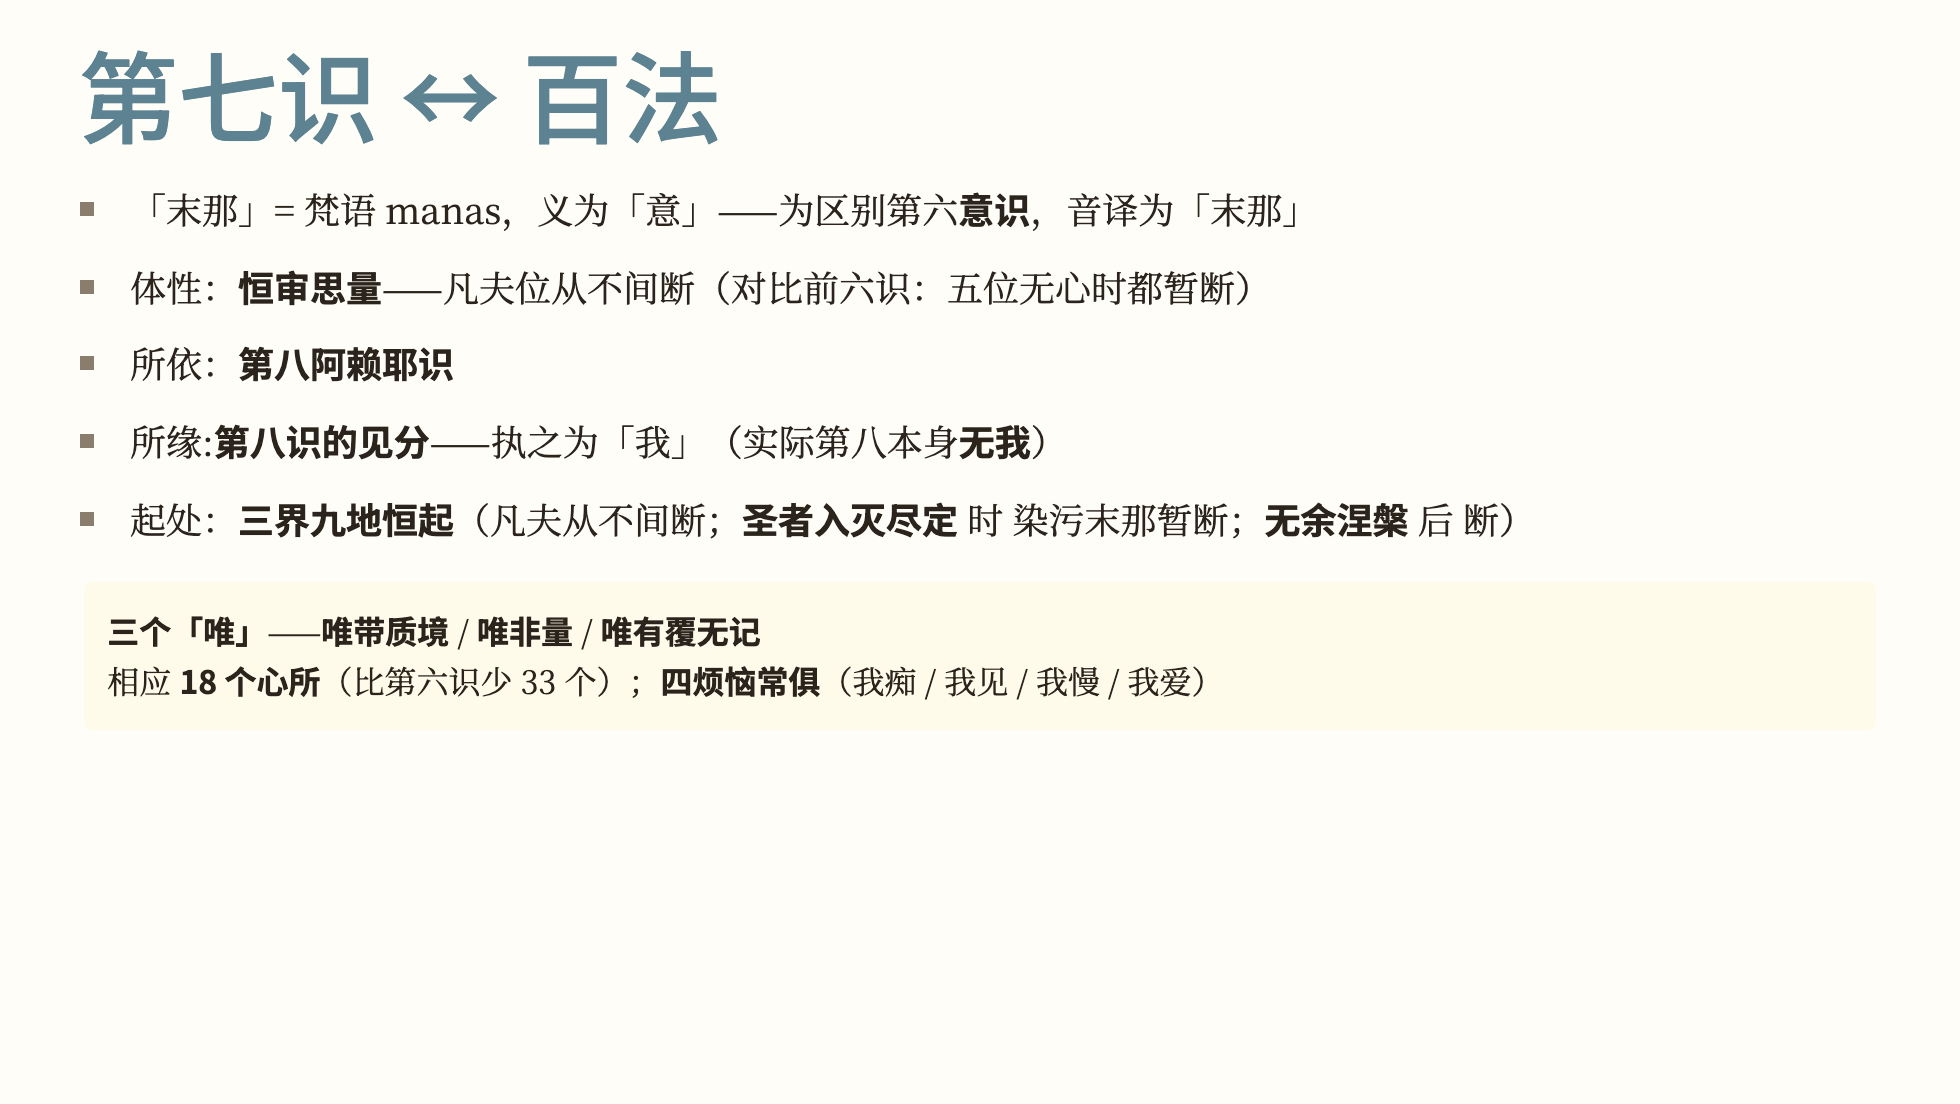
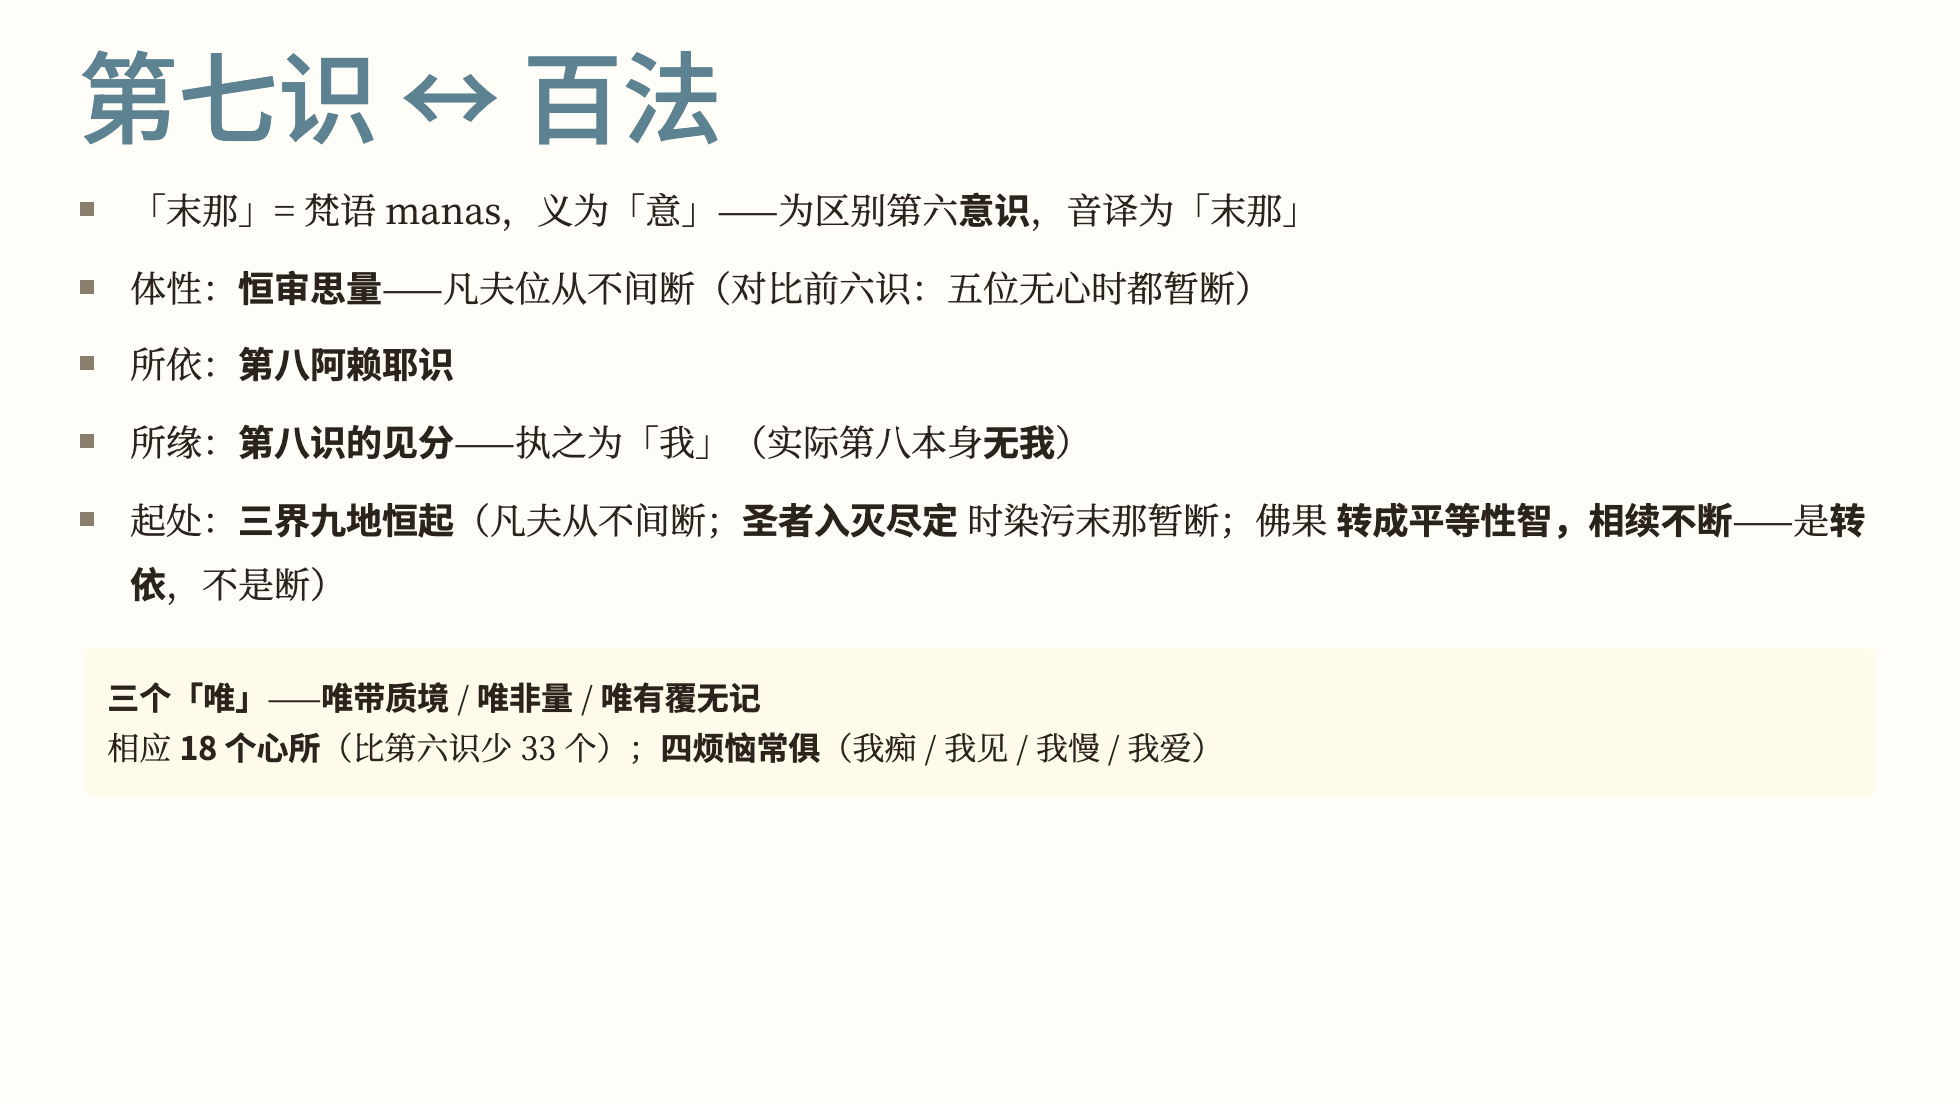
videos: V8 P4 起处再校验 — 佛果转平等性智相续不断（不是断）
大乘唯识立场：末那从来不真断，只有有漏转无漏——
- 凡夫位：染污末那 从不间断
- 圣者入灭尽定：染污末那暂断
- 佛果：转成平等性智相续不断（转依而非断灭）

删掉「无余涅槃后断」——那是二乘视角，跟大乘唯识（报身佛永不灭）不符

Changed region(s): [[0.0311, 0.4928, 0.6224, 0.7083], [0.0934, 0.3696, 0.5602, 0.4312], [0.498, 0.4312, 0.9648, 0.4928]]

diff --git a/videos/bashi-guiju-diqi-slidev/slides.md b/videos/bashi-guiju-diqi-slidev/slides.md
@@ -105,8 +105,8 @@ layout: default
 - 「末那」= 梵语 manas，义为「意」——为区别第六**意识**，音译为「末那」
 - 体性：**恒审思量**——凡夫位从不间断（对比前六识：五位无心时都暂断）
 - 所依：**第八阿赖耶识**
-- 所缘:**第八识的见分**——执之为「我」（实际第八本身**无我**）
-- 起处：**三界九地恒起**（凡夫从不间断；**圣者入灭尽定** 时 染污末那暂断；**无余涅槃** 后 断）
+- 所缘：**第八识的见分**——执之为「我」（实际第八本身**无我**）
+- 起处：**三界九地恒起**（凡夫从不间断；**圣者入灭尽定** 时染污末那暂断；佛果 **转成平等性智，相续不断**——是**转依**，不是断）
 
 </div>
 
@@ -121,7 +121,7 @@ layout: default
 体性 = 恒审思量。凡夫位 从不间断，对比 前六识 在五位无心时都暂断。
 所依 = 第八阿赖耶识。
 所缘 = 第八识的 见分——把它错执为「我」。实际上 第八本身 无我。
-起处 = 三界九地 恒起。有 两个例外——圣者入 灭尽定 时 染污末那 暂断（凡夫入不了 灭尽定）；无余涅槃 后 彻底 断。
+起处 = 三界九地 恒起。凡夫位 从不间断。圣者入 灭尽定 时 染污末那 暂断（凡夫入不了 灭尽定）。到 佛果 转成 平等性智，相续不断——大乘唯识 立场，末那 从来不真断，只是 有漏 转 无漏。
 划一下 重点——末那 有 三个「唯」：唯带质境、唯非量、唯有覆无记。相应 18 个心所，比 第六识 少 33 个。四烦恼常俱——我痴、我见、我慢、我爱 四个 恒相随。
 -->
 
